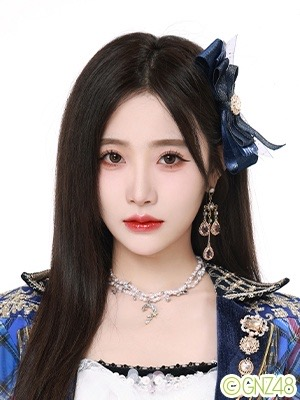
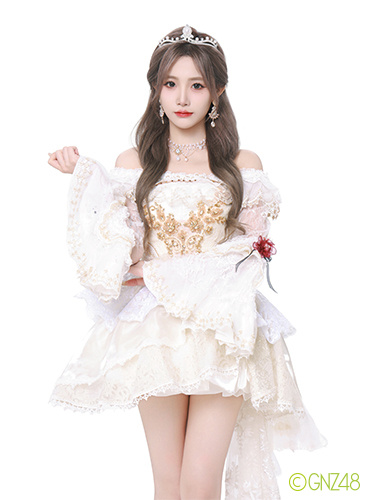
fix(guide): 公式照年份纠正(蓝格纹=2024含特写/白礼服=2025)并按倒序 2026→2025→2024 排列

diff --git a/dist/index.html b/dist/index.html
@@ -5,14 +5,14 @@
   <meta name="viewport" content="width=device-width, initial-scale=1.0" />
   <title>王语晨 · 补档站</title>
   <meta name="description" content="王语晨（GNZ48 TEAM NIII）口袋发言 / 直播录播 / 公演补档存档站。" />
-  <link rel="stylesheet" href="./css/style.css?v=1789735304256" />
-  <link rel="icon" type="image/png" href="./assets/avatar-round.png?v=1789735304256" />
-  <link rel="apple-touch-icon" href="./assets/avatar-round.png?v=1789735304256" />
+  <link rel="stylesheet" href="./css/style.css?v=1789735528722" />
+  <link rel="icon" type="image/png" href="./assets/avatar-round.png?v=1789735528722" />
+  <link rel="apple-touch-icon" href="./assets/avatar-round.png?v=1789735528722" />
 </head>
 <body>
   <header class="site-header">
     <div class="header-inner">
-      <img class="avatar" id="memberAvatar" src="./assets/avatar.png?v=1789735304256" alt="王语晨" width="201" height="304" decoding="async" />
+      <img class="avatar" id="memberAvatar" src="./assets/avatar.png?v=1789735528722" alt="王语晨" width="201" height="304" decoding="async" />
       <div class="member-meta">
         <h1 id="memberName">王语晨</h1>
         <p id="memberSub">GNZ48 TEAM NIII · 十三期生</p>
@@ -86,7 +86,7 @@
     </div>
   </div>
 
-  <script src="./vendor/hls.min.js?v=1789735304256"></script>
-  <script src="./js/app.js?v=1789735304256"></script>
+  <script src="./vendor/hls.min.js?v=1789735528722"></script>
+  <script src="./js/app.js?v=1789735528722"></script>
 </body>
 </html>

diff --git a/dist/js/app.js b/dist/js/app.js
@@ -101,15 +101,15 @@ const PROFILE = {
       ]
     }
   ],
-  // 公式照（按年份分组）：2024/2025 来自微博，2026 来自 SNH48 官网成员资料
+  // 公式照（按年份倒序分组）：2026 官网，2025 白礼服+皇冠、2024 蓝格纹礼服（均来自微博）
   galleryByYear: [
     {
-      year: '2024',
-      source: '微博',
+      year: '2026',
+      source: 'SNH48 官网成员资料',
       photos: [
-        './assets/gs2024-1.jpg',
-        './assets/gs2024-2.jpg',
-        './assets/gs2024-3.jpg'
+        './assets/member-gs1.jpg',
+        './assets/member-gs2.jpg',
+        './assets/member-gs4.jpg'
       ]
     },
     {
@@ -119,17 +119,17 @@ const PROFILE = {
         './assets/gs2025-1.jpg',
         './assets/gs2025-2.jpg',
         './assets/gs2025-3.jpg',
-        './assets/gs2025-4.jpg',
-        './assets/gs2025-5.jpg'
+        './assets/gs2025-4.jpg'
       ]
     },
     {
-      year: '2026',
-      source: 'SNH48 官网成员资料',
+      year: '2024',
+      source: '微博',
       photos: [
-        './assets/member-gs1.jpg',
-        './assets/member-gs2.jpg',
-        './assets/member-gs4.jpg'
+        './assets/gs2024-1.jpg',
+        './assets/gs2024-2.jpg',
+        './assets/gs2024-3.jpg',
+        './assets/gs2024-4.jpg'
       ]
     }
   ],

diff --git a/site/js/app.js b/site/js/app.js
@@ -101,15 +101,15 @@ const PROFILE = {
       ]
     }
   ],
-  // 公式照（按年份分组）：2024/2025 来自微博，2026 来自 SNH48 官网成员资料
+  // 公式照（按年份倒序分组）：2026 官网，2025 白礼服+皇冠、2024 蓝格纹礼服（均来自微博）
   galleryByYear: [
     {
-      year: '2024',
-      source: '微博',
+      year: '2026',
+      source: 'SNH48 官网成员资料',
       photos: [
-        './assets/gs2024-1.jpg',
-        './assets/gs2024-2.jpg',
-        './assets/gs2024-3.jpg'
+        './assets/member-gs1.jpg',
+        './assets/member-gs2.jpg',
+        './assets/member-gs4.jpg'
       ]
     },
     {
@@ -119,17 +119,17 @@ const PROFILE = {
         './assets/gs2025-1.jpg',
         './assets/gs2025-2.jpg',
         './assets/gs2025-3.jpg',
-        './assets/gs2025-4.jpg',
-        './assets/gs2025-5.jpg'
+        './assets/gs2025-4.jpg'
       ]
     },
     {
-      year: '2026',
-      source: 'SNH48 官网成员资料',
+      year: '2024',
+      source: '微博',
       photos: [
-        './assets/member-gs1.jpg',
-        './assets/member-gs2.jpg',
-        './assets/member-gs4.jpg'
+        './assets/gs2024-1.jpg',
+        './assets/gs2024-2.jpg',
+        './assets/gs2024-3.jpg',
+        './assets/gs2024-4.jpg'
       ]
     }
   ],
